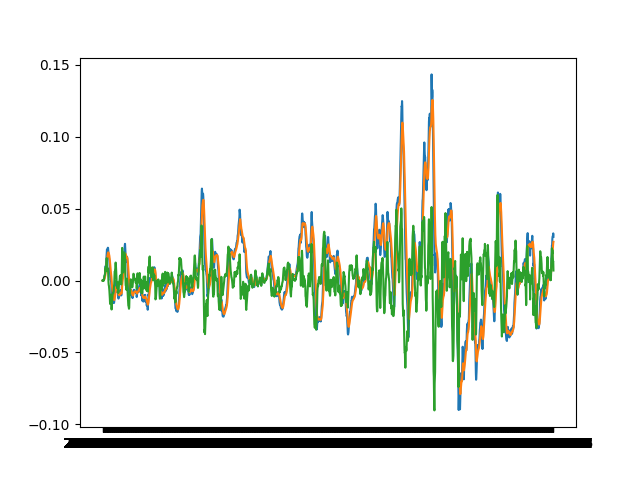
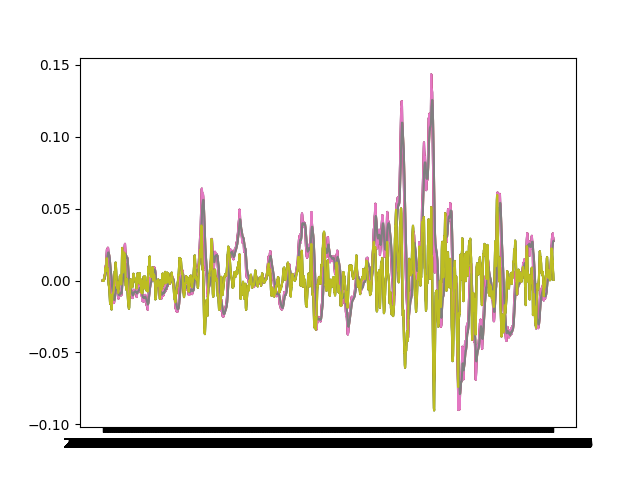
standardizing the data

Changed region(s): [[0.1562, 0.1562, 0.875, 0.8438]]

diff --git a/monitor.py b/monitor.py
@@ -16,7 +16,7 @@ import matplotlib.pyplot as plt
 from pyfiglet import Figlet
 from prettytable import PrettyTable
 table = PrettyTable()
-import pandas.DataFrame as dataf
+df = pd.DataFrame()
 
 
 
@@ -87,9 +87,36 @@ while True:
     bollinger_up_signal = False
     bollinger_low_signal = False
     rsi_signal = False
-    macd_signal_line_signl = False
+    macd_signal_line_signal = False
     macd_histogram_signal = False
-    indcadores_dataframe = []
+    indicadores_dataframe = []
+
+
+    last_macd = macd[-1]
+    indicadores_dataframe.append(last_macd)
+    try:
+        macd_indicator
+        indicator_handler.update_indicator(session, macd_indicator.id)
+    except:
+        macd_indicator = indicator_handler.create_indicator(session, 'macd', last_macd)
+
+    last_macd_signal_line = macd_signal_line[-1]
+    indicadores_dataframe.append(last_macd_signal_line)
+    try:
+        macd_signal_line_indicator
+        indicator_handler.update_indicator(session, macd_signal_line_indicator.id, last_macd_signal_line)
+    except:
+        macd_signal_line_indicator = indicator_handler.create_indicator(session, 'macd_signal_line', last_macd_signal_line)
+
+    last_macd_histogram = macd_histogram[-1]
+    indicadores_dataframe.append(last_macd_histogram)
+    try:
+        macd_histogram_indicator
+        indicator_handler.update_indicator(session, macd_histogram_indicator.id, last_macd_histogram)
+    except:
+        macd_histogram_indicator = indicator_handler.create_indicator(session, 'macd_histogram', last_macd_histogram)
+
+
 
 
     last_bollinger_up = up_bollinger[-1]
@@ -146,24 +173,6 @@ while True:
         rsi_signal = True
     table.add_column("Rsi Indicator", [str(rsi_signal)])
 
-    last_macd_signal_line = macd_signal_line[-1]
-    indicadores_dataframe.append(last_macd_signal_line)
-    try:
-        macd_signal_line_indicator
-        indicator_handler.update_indicator(session, macd_signal_line_indicator.id, last_macd_signal_line)
-    except:
-        macd_signal_line_indicator = indicator_handler.create_indicator(session, 'macd_signal_line', last_macd_signal_line)
-
-    last_macd_histogram = macd_histogram[-1]
-    indicadores_dataframe.append(last_macd_histogram)
-    try:
-        macd_histogram_indicator
-        indicator_handler.update_indicator(session, macd_histogram_indicator.id, last_macd_histogram)
-    except:
-        macd_histogram_indicator = indicator_handler.create_indicator(session, 'macd_histogram', last_macd_histogram)
-
-
-
     last_change_2days_ago = change_2days_ago[-1]
     indicadores_dataframe.append(last_change_2days_ago)
     try:
@@ -215,27 +224,44 @@ while True:
         print "[++] Distancia de %0.3f ate a borda superior" % (last_close_price - last_bollinger_up)
 
     print ""
-    #print data['macdh']
-    #print data['boll_ub']
-    #print data
-    #print data['boll_lb']
-    #print last_bollinger_up[-1]
+    
+    #Calculando sinais para estrategia
+    #padronizando os dados
+    boll_ub_array = data['boll_ub']
+    boll_ub_std = boll_ub_array.std()
+    boll_ub_mean = boll_ub_array.mean()
+    boll_ub_difference = last_bollinger_up - boll_ub_mean
+    boll_ub_standardized = boll_ub_difference / boll_ub_std
+
+    boll_lb_array = data['boll_lb']
+    boll_lb_std = boll_lb_array.std()
+    boll_array = data['boll']
+    boll_std = boll_array.std()
+    macd_array = data['macd']
+    macd_std = macd_array.std()
+
+    macd_histogram_array = data['macdh']
+    macd_histogram_std = macd_histogram_array.std()
+    macd_histogram_mean = macd_histogram_array.mean()
+    macd_histogram_difference = last_macd_histogram - macd_histogram_mean
+    macd_histogram_standardized = macd_histogram_difference / macd_histogram_std
+    
+    macd_signal_line_array = data['macds']
+    macd_signal_line_std = macd_signal_line_array.std()
+    macd_signal_line_mean = macd_signal_line.mean()
+    macd_signal_line_std = macd_signal_line.std()
+    
+
+
+
+
     #trace = go.Candlestick(x=data.index, open=data.open, high=data.high, low=data.low, close=data.close)
     #trace = go.Candlestick(x=data.index, close=data.macdh)
     #data = [trace]
     #py.offline.plot(data, filename='Updated_historical')
-    #c = CurrencyRates()
-    #a =  c.get_rate('USD', 'BRL')
-    #x = np.arange(4)
-    #plt.plot(up_bollinger)
-    #plt.plot(low_bollinger)
-    #plt.plot(close_price)
-   # plt.plot(close_price)
     plt.plot(macd)
     plt.plot(macd_signal_line)
     plt.plot(macd_histogram)
-    #print up_bollinger
-    #print low_bollinger
     plt.savefig('testingstockdata.png')
         #print a
     time.sleep(600)
